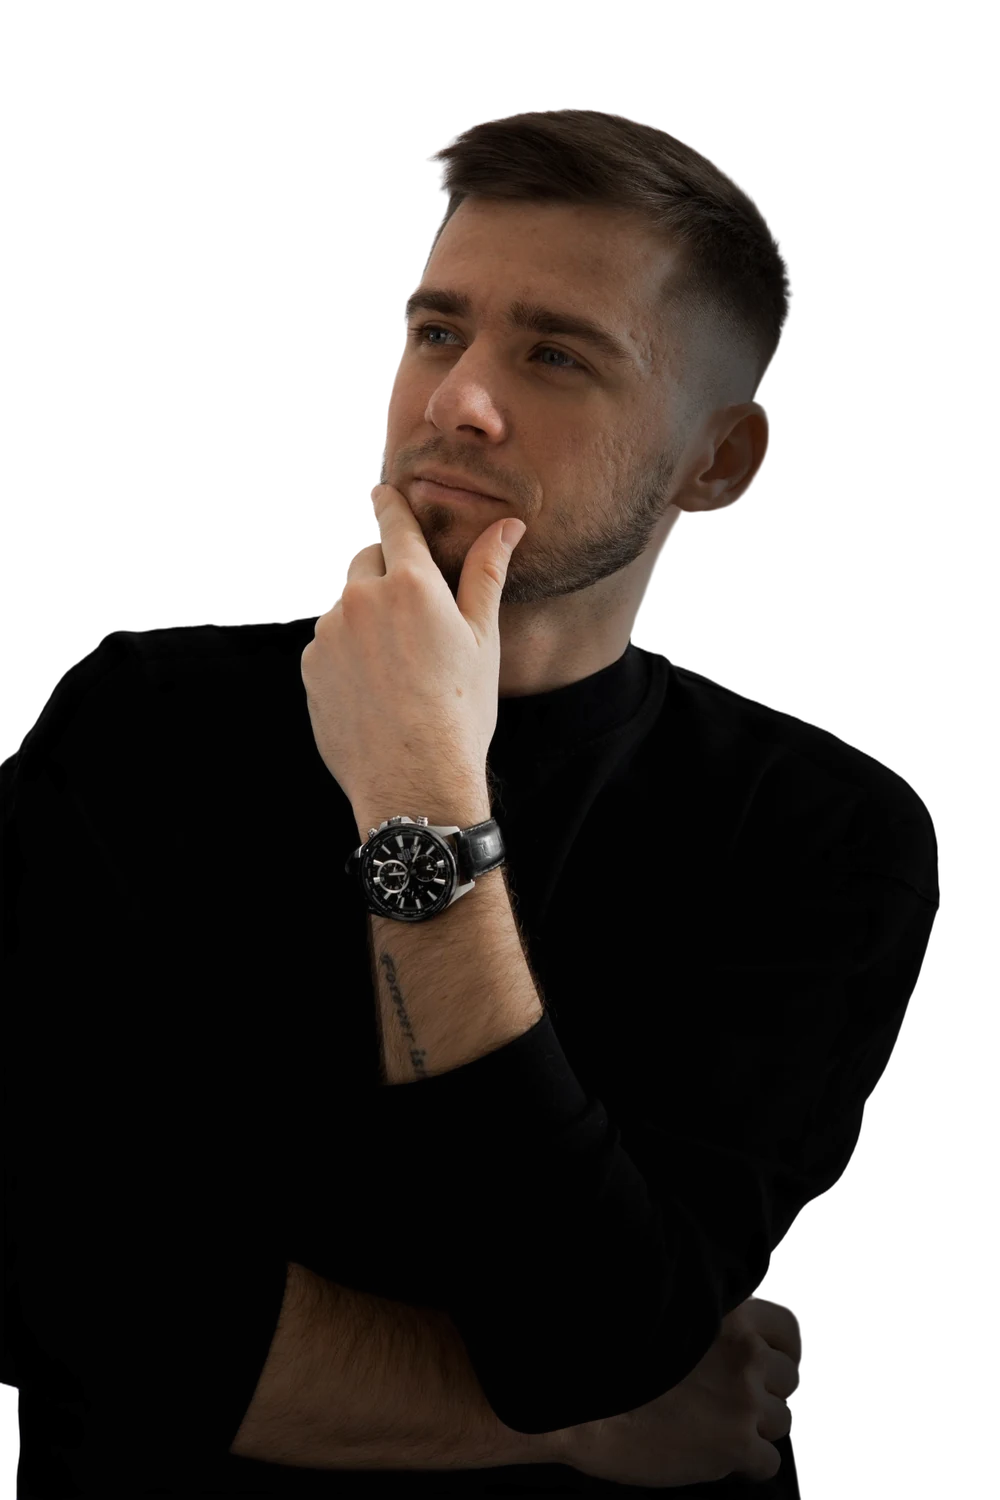
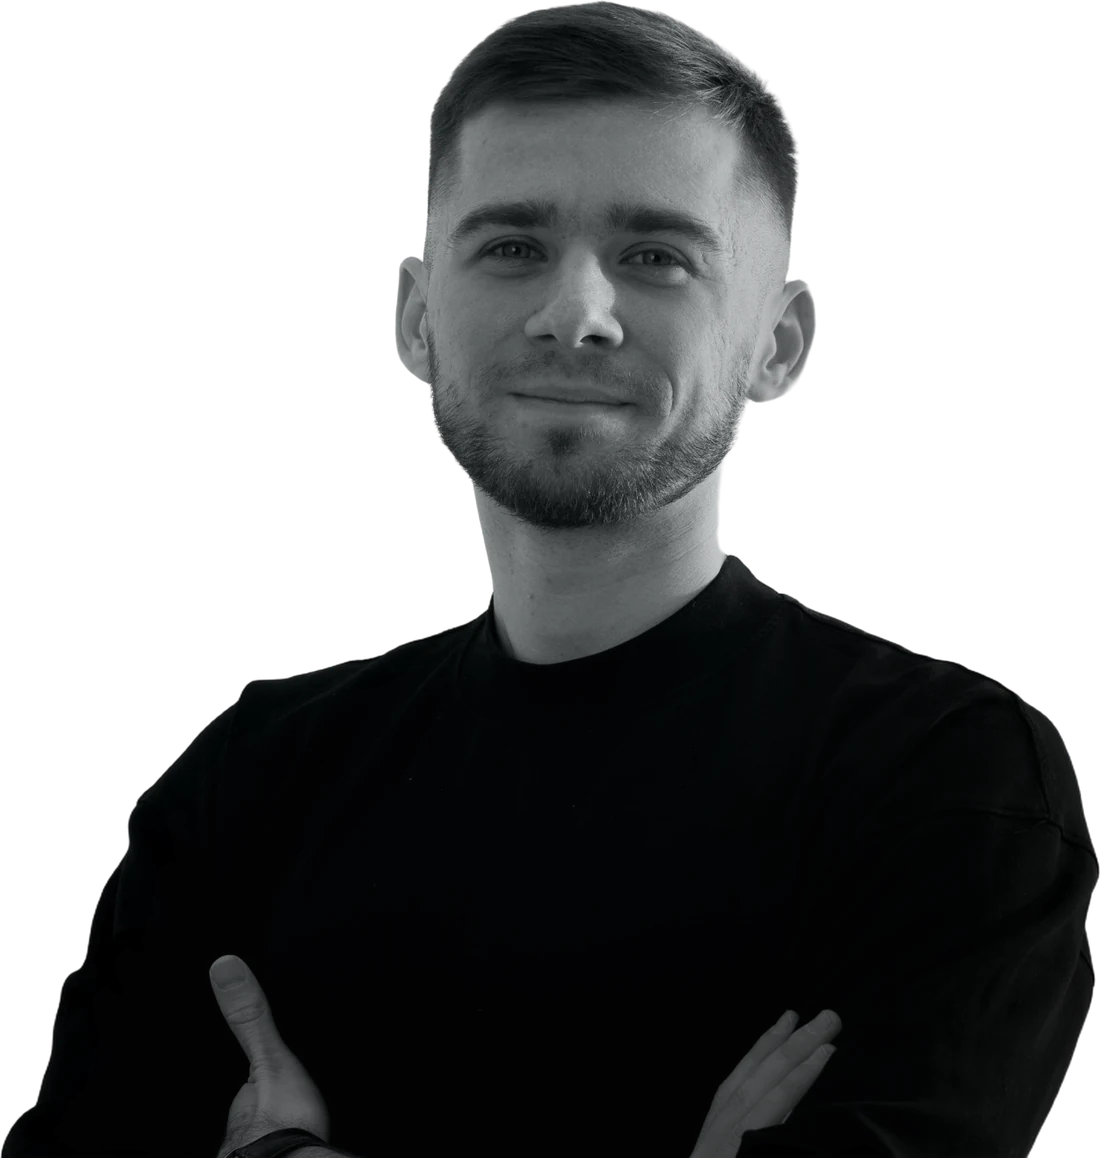
Use the new black-and-white portrait on the hero
Cut out with a portrait model, edge colour cleanup and the same side
shading; hero box takes the photo's proportions, wider on phones;
previous photo kept as ivan-hero-v1.webp; preview card regenerated.

Claude-Session: https://claude.ai/code/session_01B8JzorBwYD9xgAdkLgyuW4

diff --git a/index.html b/index.html
@@ -22,7 +22,7 @@
     <link rel="preconnect" href="https://fonts.googleapis.com">
     <link rel="preconnect" href="https://fonts.gstatic.com" crossorigin>
     <link href="https://fonts.googleapis.com/css2?family=Inter:wght@400;500&family=Inter+Tight:wght@400;500;600&display=swap" rel="stylesheet">
-    <link rel="stylesheet" href="css/style.css?v=20261116">
+    <link rel="stylesheet" href="css/style.css?v=20261117">
 </head>
 <body>
 
@@ -526,8 +526,8 @@
         </div>
     </div>
 
-    <script src="js/i18n.js?v=20261116"></script>
-    <script src="js/vendor/lenis.min.js?v=20261116"></script>
-    <script src="js/main.js?v=20261116"></script>
+    <script src="js/i18n.js?v=20261117"></script>
+    <script src="js/vendor/lenis.min.js?v=20261117"></script>
+    <script src="js/main.js?v=20261117"></script>
 </body>
 </html>

diff --git a/consent.html b/consent.html
@@ -9,7 +9,7 @@
     <link rel="preconnect" href="https://fonts.googleapis.com">
     <link rel="preconnect" href="https://fonts.gstatic.com" crossorigin>
     <link href="https://fonts.googleapis.com/css2?family=Inter:wght@400;500&family=Inter+Tight:wght@400;500;600&display=swap" rel="stylesheet">
-    <link rel="stylesheet" href="css/style.css?v=20261116">
+    <link rel="stylesheet" href="css/style.css?v=20261117">
 </head>
 <body>
     <main class="legal">

diff --git a/privacy.html b/privacy.html
@@ -9,7 +9,7 @@
     <link rel="preconnect" href="https://fonts.googleapis.com">
     <link rel="preconnect" href="https://fonts.gstatic.com" crossorigin>
     <link href="https://fonts.googleapis.com/css2?family=Inter:wght@400;500&family=Inter+Tight:wght@400;500;600&display=swap" rel="stylesheet">
-    <link rel="stylesheet" href="css/style.css?v=20261116">
+    <link rel="stylesheet" href="css/style.css?v=20261117">
 </head>
 <body>
     <main class="legal">

diff --git a/css/style.css b/css/style.css
@@ -668,8 +668,8 @@ html.is-preloading {
     left: 50%;
     bottom: 0;
     z-index: 2;
-    height: 76%;
-    aspect-ratio: 2 / 3;
+    height: 72%;
+    aspect-ratio: 1100 / 1158; /* пропорции фото img/ivan-hero.webp */
     translate: -50% 0;
     will-change: transform;
 }
@@ -2248,7 +2248,8 @@ html.is-preloading {
     }
 
     .hero__person {
-        height: 66%;
+        width: 112%;
+        height: auto;
         bottom: 0;
     }
 
